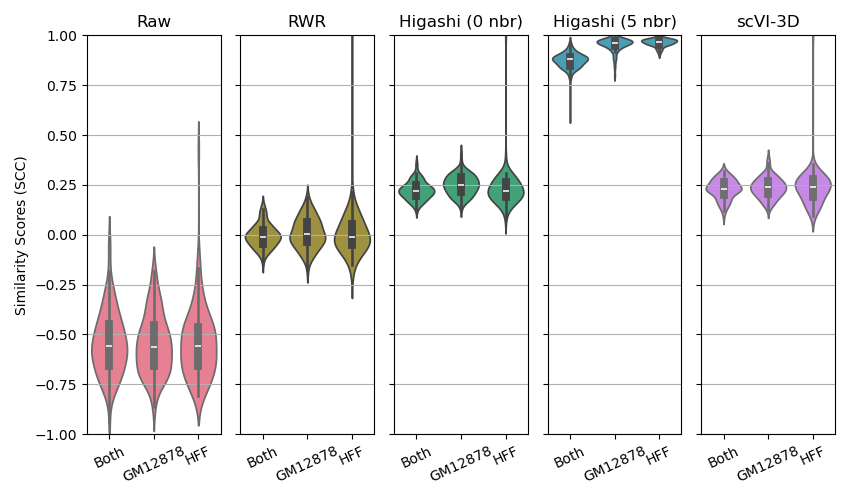
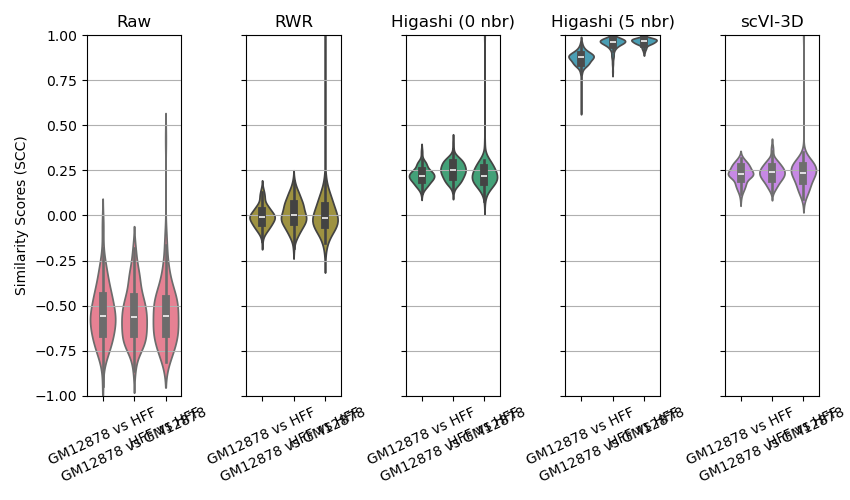
plots

diff --git a/experiments/2023-09-18/plot_SCC_2.py b/experiments/2023-09-18/plot_SCC_2.py
@@ -70,7 +70,7 @@ colors = sns.color_palette('husl', n_colors=5)
 #print(colors)
 # Set the common x-axis ticks and labels
 x_ticks = [0, 1, 2]
-x_tick_labels = ["Both", "GM12878", "HFF"]
+x_tick_labels = ["GM12878 vs HFF", "GM12878 vs GM12878", "HFF vs HFF"]
 for i, d in enumerate(dirs):
     ax = axes[i]  # Get the current axis
     temp_df = pd.read_csv(os.path.join(d, "h0_all_pairs.csv"), sep=',')
